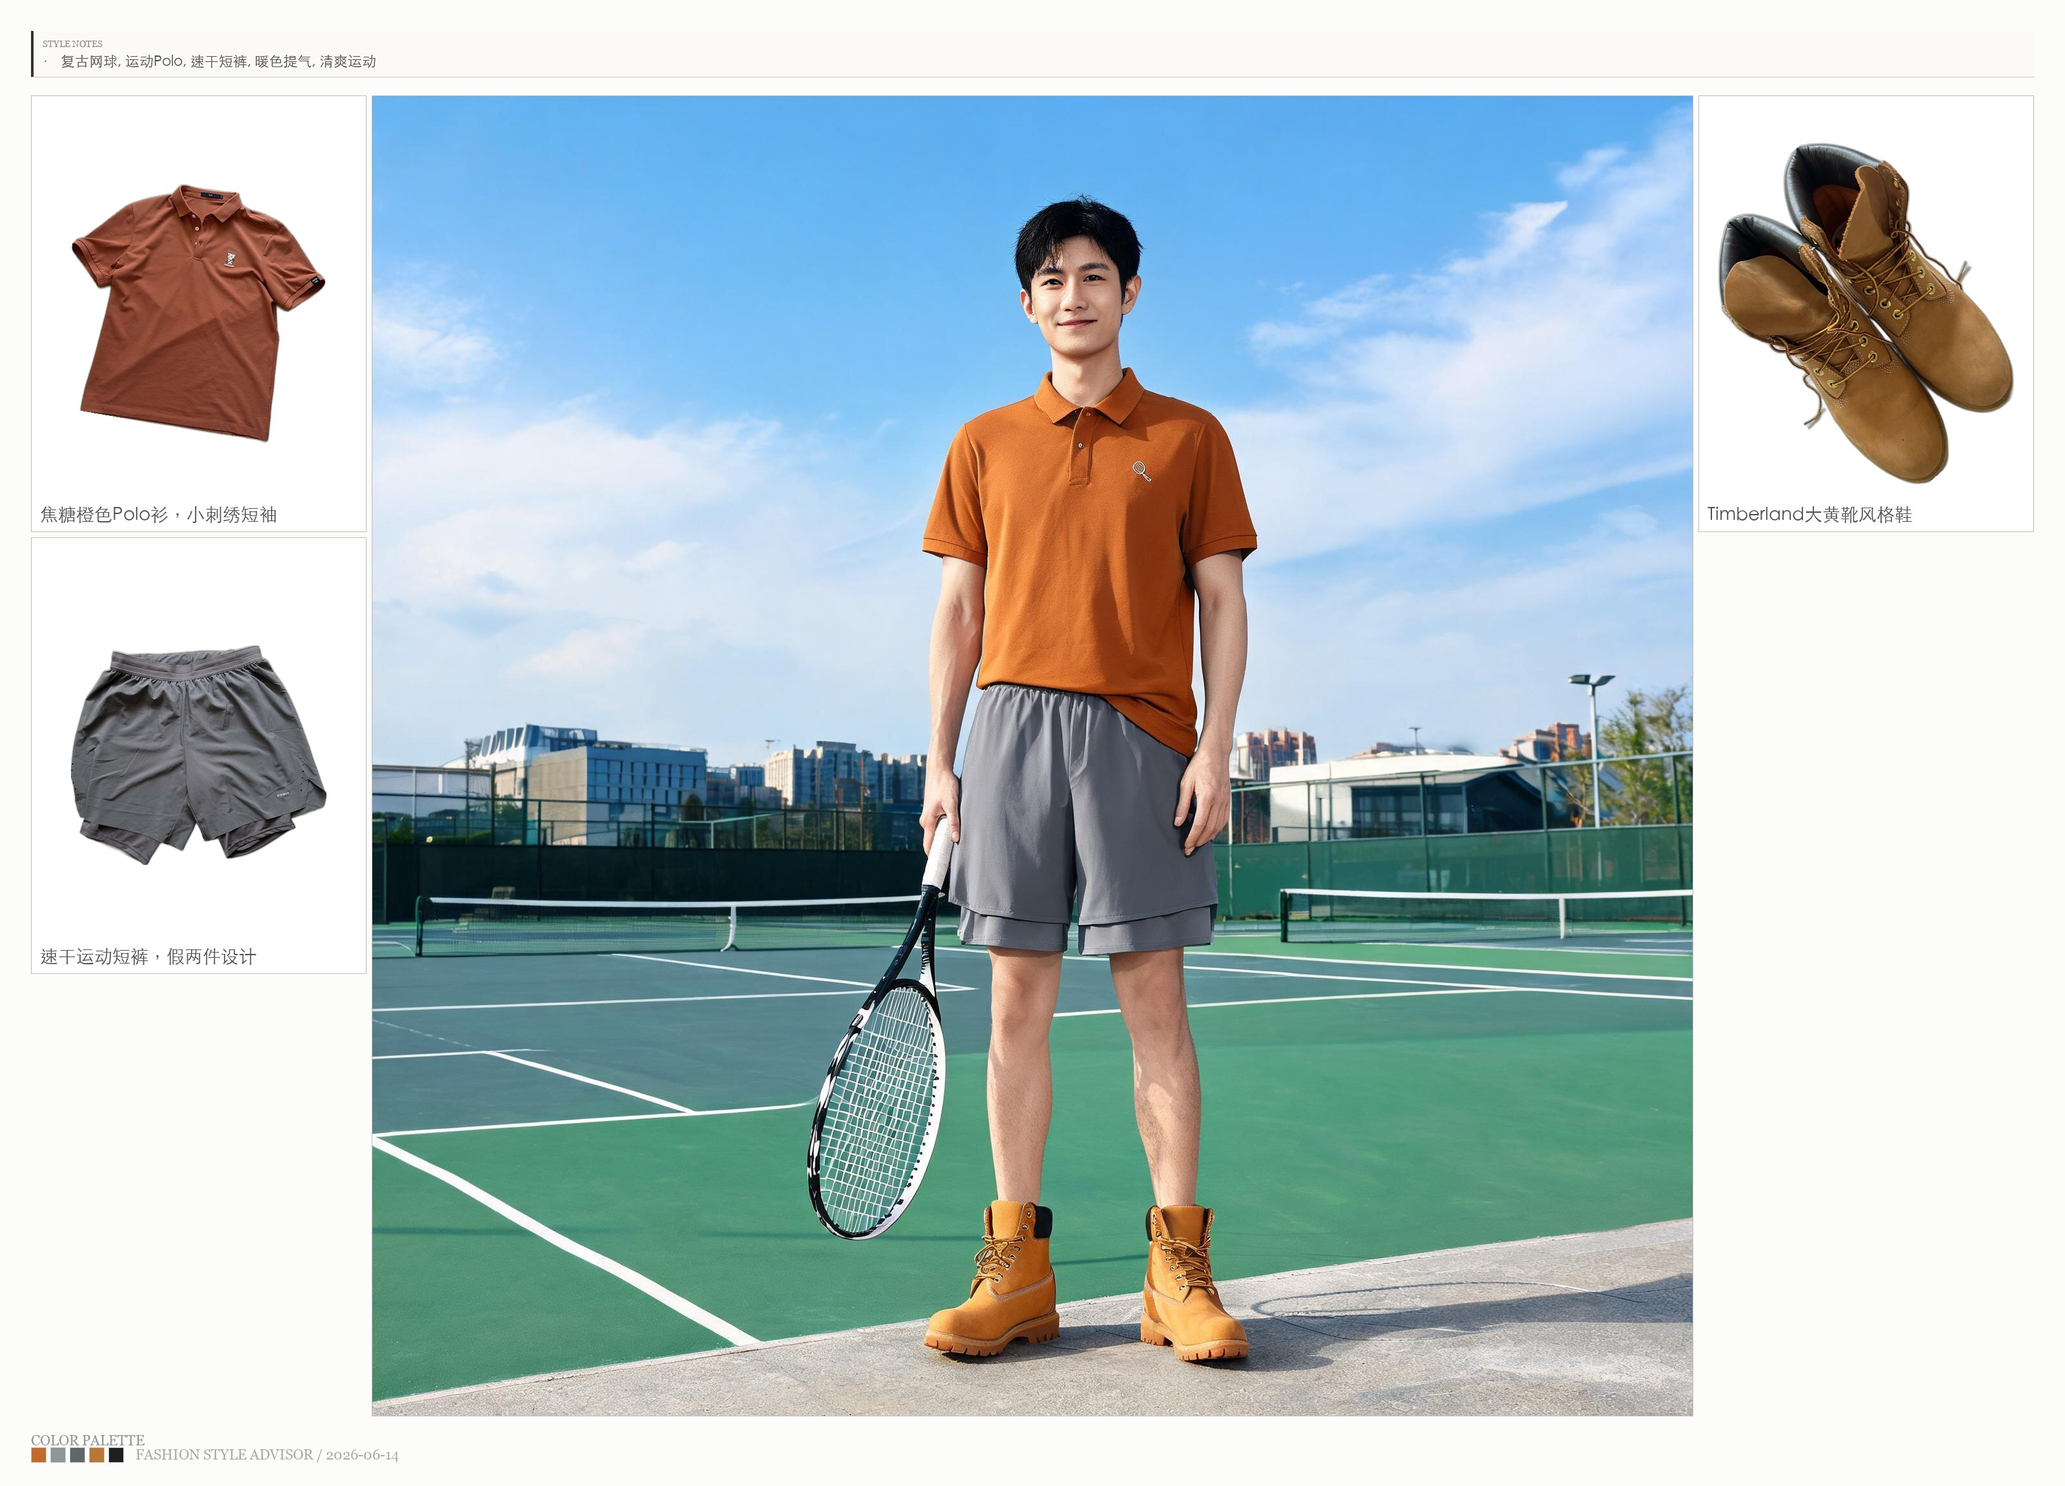
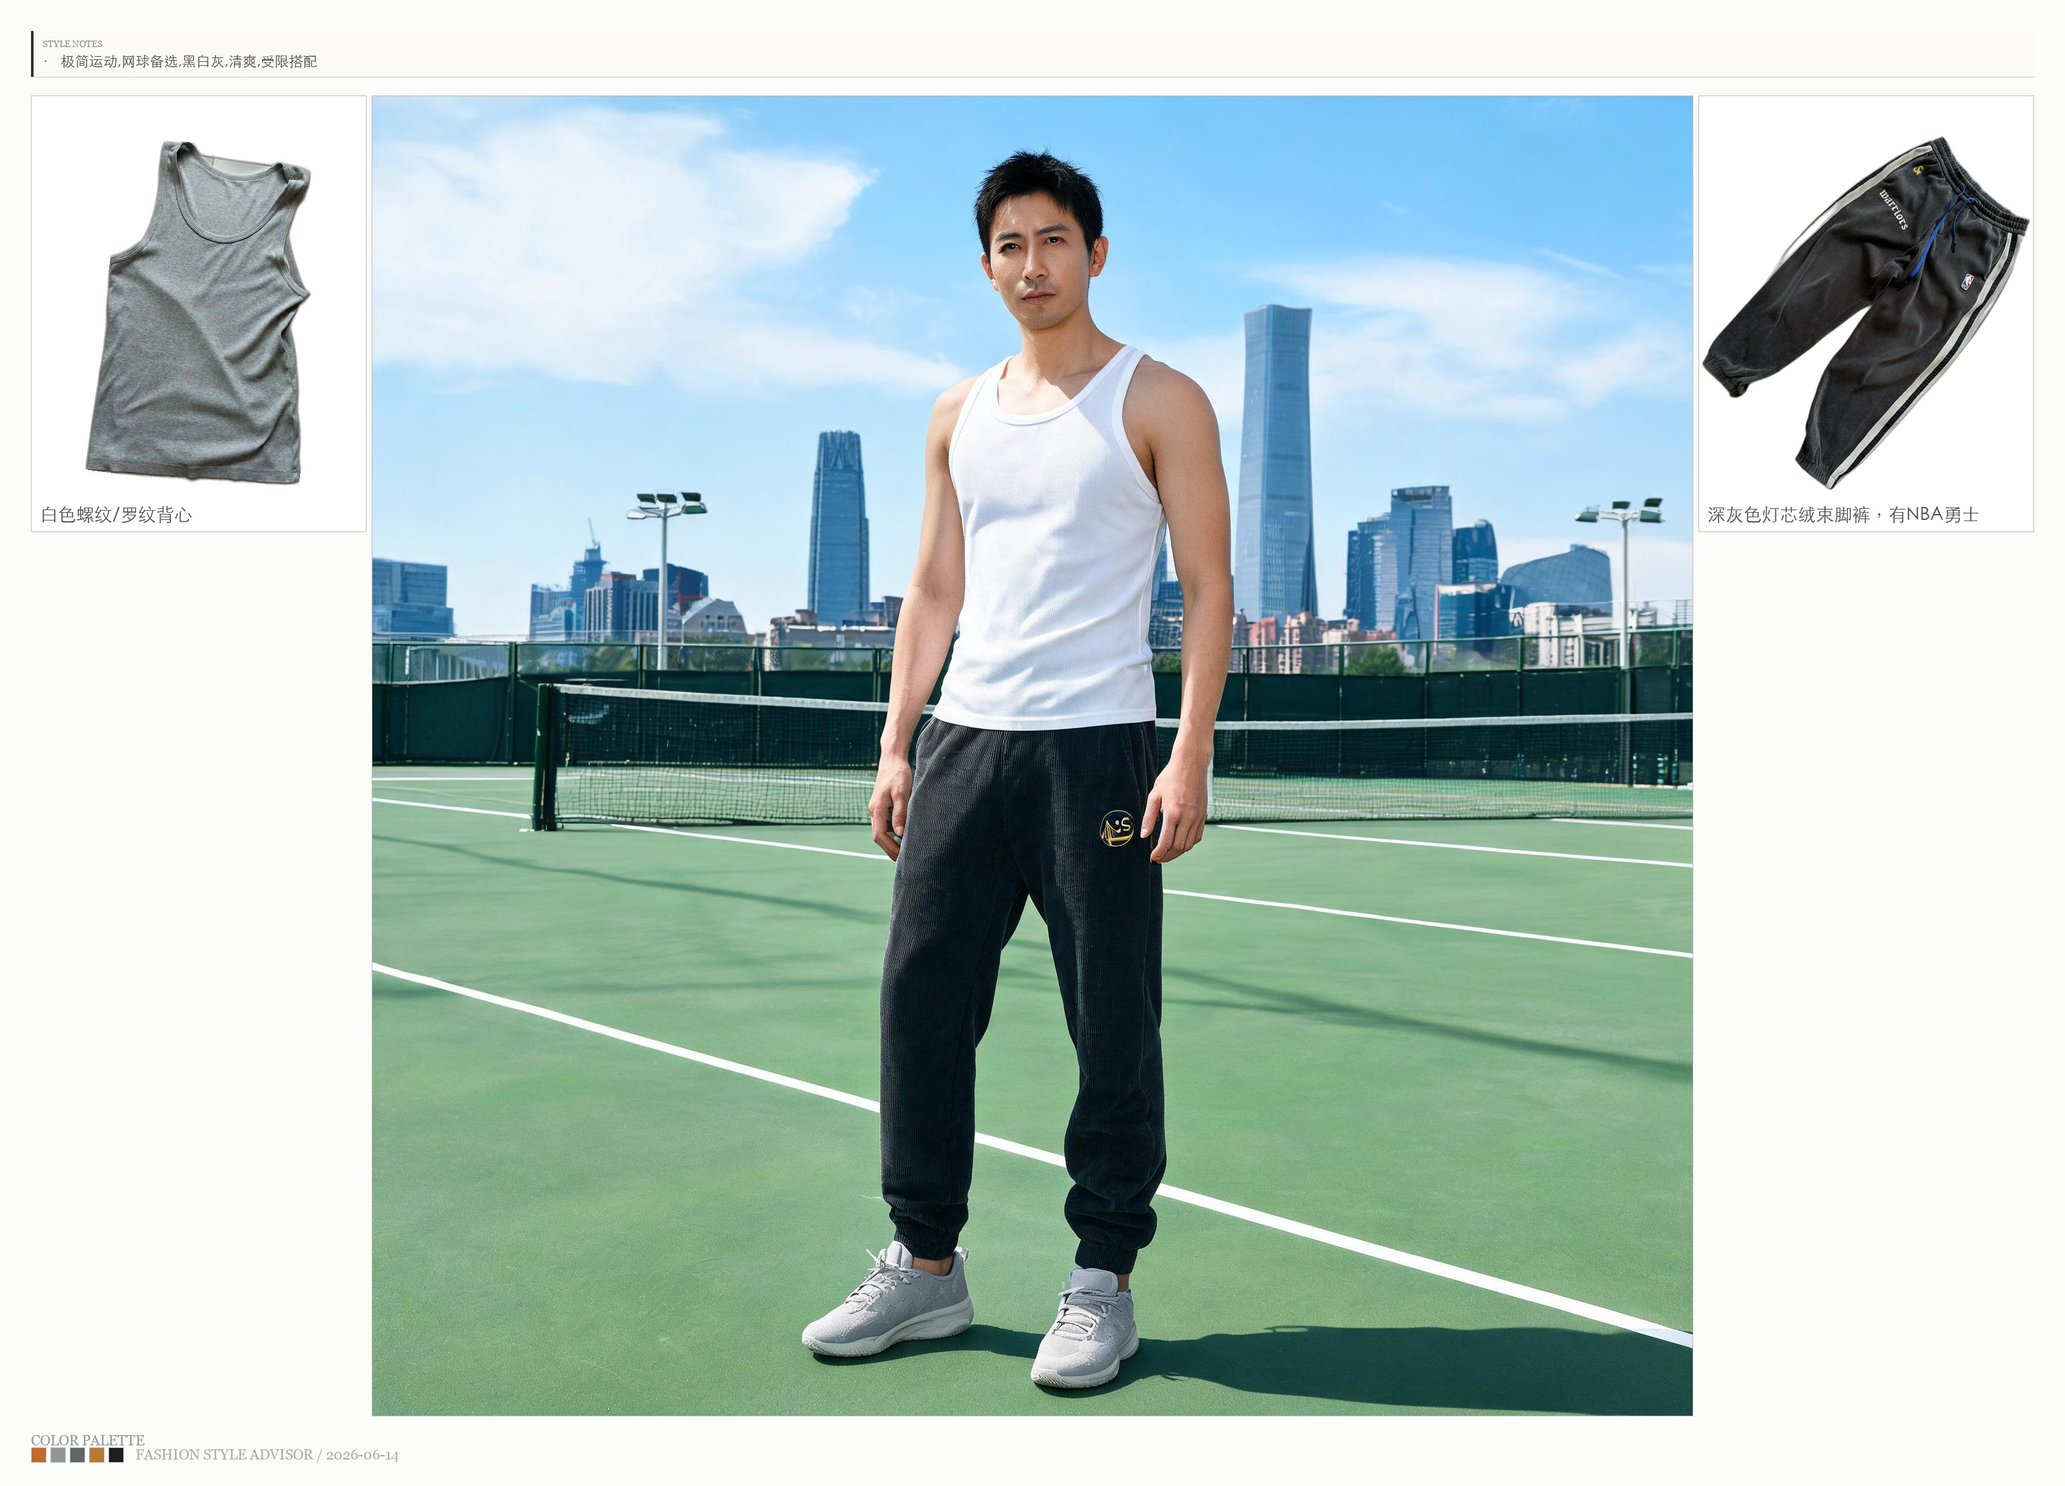
🎨 打网球穿搭 — 远程操控

diff --git a/tools/build_push.py b/tools/build_push.py
@@ -687,6 +687,16 @@ def save_push_cache(outfit_dir, content, style_name, outfit_name):
         }, f, ensure_ascii=False)
 
 
+def emit_stdout(content, style_name, outfit_name):
+    """向 stdout 输出 JSON，供手机控制台同步（最可靠的同步通道）"""
+    payload = json.dumps({
+        'content': content,
+        'style_name': style_name,
+        'outfit_name': outfit_name,
+    }, ensure_ascii=False)
+    print(f'__PUSH_RESULT__{payload}', flush=True)
+
+
 # ============================================================
 # 3. 命令行
 # ============================================================
@@ -734,10 +744,12 @@ def build_simple(outfit_dir):
 
 def main():
     if len(sys.argv) < 2:
-        print("用法: python3 tools/build_push.py <outfit_dir> [--preview] [--simple|--rich|--both] [--bline|--explore] [--bold|--adventure]")
+        print("用法: python3 tools/build_push.py <outfit_dir> [--preview] [--simple|--rich|--both] [--bline|--explore] [--bold|--adventure] [--no-bline] [--stdout]")
         print("  B线触发词(微调): 探索 新尝试 新鲜 微调 不一样 换个口味 挖掘 冷门 尝鲜")
         print("  B线触发词(大胆): 大胆 另类 冒险 突破 跨界 出格 惊喜 前卫 个性 疯狂")
         print("  偏好设置: python3 tools/build_push.py --set simple|rich|both")
+        print("  --stdout: 输出 JSON 到 stdout 供控制台同步（手机控制台自动使用）")
+        print("  --no-bline: 强制关闭 B线探索（手机控制台自动使用）")
         return
 
     # 设置偏好
@@ -764,12 +776,15 @@ def main():
     # B线参数：CLI 标志 + 触发词检测
     force_line = None
     force_boldness = None
+    # --no-bline：强制关闭 B线（手机控制台调用时使用，防止 build_push 独立触发 B线替换 outfit）
+    if '--no-bline' in sys.argv:
+        force_line = 'A'
     if '--bline' in sys.argv or '--explore' in sys.argv:
         force_line = 'B'
     if '--bold' in sys.argv or '--adventure' in sys.argv:
         force_line = 'B'
         force_boldness = 'bold'
-    # 从 outfit 目录名自动检测触发词
+    # 从 outfit 目录名自动检测触发词（仅在未明确指定时）
     if force_line is None:
         try:
             from style_lab import detect_bline_trigger
@@ -797,6 +812,8 @@ def main():
 
         # 缓存推送内容，供控制台同步显示
         save_push_cache(outfit_dir, rich_content, rich_name, outfit_name)
+        if '--stdout' in sys.argv:
+            emit_stdout(rich_content, rich_name, outfit_name)
 
         push_title = outfit_name if outfit_name else '穿搭推荐'
 
@@ -841,6 +858,8 @@ def main():
 
         # 缓存推送内容，供控制台同步显示
         save_push_cache(outfit_dir, content, style_name, outfit_name)
+        if '--stdout' in sys.argv:
+            emit_stdout(content, style_name, outfit_name)
 
         push_title = outfit_name if outfit_name else style_name
         base = get_push_base_url()

diff --git a/wardrobe/服装档案.md b/wardrobe/服装档案.md
@@ -76,14 +76,14 @@ last_updated: 2026-06-11
 
 | ID | 图片文件名 | 颜色 | 款式/风格 | 特点 | 适合度 | 备注 |
 |----|-----------|------|----------|------|--------|------|
-| SH-001 | Image_20260610_0837_13_270.jpg | 黑色 | 速干运动短裤、抽绳腰 | 功能性、运动风格、简洁 | 适合 | 运动/夏季 |
-| SH-002 | Image_20260610_0837_36_147.jpg | 白色底+绿色热带植物印花 | 夏威夷短裤/沙滩裤 | 度假风、宽松、与TS-002可搭套装 | 适合 | 度假/夏季/海滩 |
-| SH-003 | Image_20260610_0837_51_036.jpg | 灰色 | 速干运动短裤、假两件设计 | 功能性、运动风格、适合运动 | 适合 | 运动/健身/夏季 |
+| SH-001 | Image_20260610_0837_13_270.jpg | 黑色 | Cotton On速干运动短裤、抽绳腰 | 功能性、运动风格、简洁 | 适合 | 跑步/运动/夏季 |
+| SH-002 | Image_20260610_0837_36_147.jpg | 白色底+绿色热带植物印花 | 夏威夷短裤/沙滩裤 | 度假风、宽松、与TS-002可搭套装 | 适合 | 度假/夏季/海滩 ⚠非运动裤 |
+| SH-003 | Image_20260610_0837_51_036.jpg | 灰色 | Decathlon Kiprun专业跑步短裤、假两件 | 功能性、运动风格、内衬层增加层次 | 适合 | 🏃跑步/健身/网球/夏季 |
 | SH-004 | Image_20260610_0838_04_744.jpg | 浅灰色/麻灰色 | 休闲短裤、抽绳腰 | 舒适、日常休闲、宽松版型 | 适合 | 日常休闲/夏季 |
-| SH-005 | Image_20260610_0838_22_364.jpg | 灰色 | 速干运动短裤、大口袋设计 | 功能性、运动风格、有口袋 | 适合 | 运动/健身/夏季 |
+| SH-005 | Image_20260610_0838_22_364.jpg | 灰色 | Decathlon Artengo网球运动短裤 | 功能性、运动风格、有口袋、🎾网球线 | 适合 | 🎾网球/运动/夏季 |
 | SH-006 | Image_20260610_0838_45_017.jpg | 棕色/咖啡色 | 速干运动短裤、抽绳腰 | 颜色特别、运动风格、适合日常 | 适合 | 运动/日常/夏季 |
 | SH-007 | Image_20260610_0838_59_859.jpg | 深灰色/黑色 | 运动五分裤、抽绳腰 | 舒适、日常休闲/运动、版型适中 | 适合 | 运动/日常/夏季 |
-| SH-008 | Image_20260610_0839_33_059.jpg | 棕色/咖啡色 | 亚麻/棉麻休闲短裤 | 有质感、适合偏白肤色、适合轻熟休闲 | 适合 | 轻熟休闲/日常/夏季 |
+| SH-008 | Image_20260610_0839_33_059.jpg | 棕色/咖啡色 | 亚麻/棉麻休闲短裤 | 有质感、适合偏白肤色、适合轻熟休闲 | 适合 | 轻熟休闲/日常/夏季 ⚠非运动裤 |
 
 ---
 
@@ -113,15 +113,15 @@ last_updated: 2026-06-11
 | ID | 图片文件名 | 颜色 | 款式/风格 | 特点 | 适合度 | 备注 |
 |----|-----------|------|----------|------|--------|------|
 | SHOE-001 | IMG_8488.jpg | 米白色+灰色 | 复古休闲运动鞋/老爹鞋 | 复古风、有细节、增加下半身量感 | 适合 | 日常休闲、搭配牛仔/休闲裤 |
-| SHOE-002 | Image_20260610_0847_33_357.jpg | 米白+灰+黑 | 阿迪达斯复古德训鞋风格 | 干净百搭、复古风、适合偏白肤色 | 很适合 | 日常百搭、休闲/轻熟都可 |
-| SHOE-003 | Image_20260610_0847_51_185.jpg | 亮橙色 | 阿迪达斯足球鞋/运动鞋 | 运动风格、有球队元素 | 适合 | 运动/踢球 |
-| SHOE-004 | Image_20260610_0848_17_725.jpg | 米色/卡其色 | 匡威低帮帆布鞋 | 经典百搭、干净、休闲风 | 很适合 | 日常百搭、休闲/度假 |
-| SHOE-005 | Image_20260610_0848_30_512.jpg | 白色 | Nike白色板鞋/休闲鞋 | 干净百搭、简约、适合偏白肤色 | 很适合 | 日常百搭、休闲/轻熟 |
-| SHOE-006 | Image_20260610_0849_32_816.jpg | 姜黄色/土黄色 | 匡威高帮帆布鞋 | 有颜色亮点、复古感、适合偏白肤色 | 适合 | 日常休闲、增加造型亮点 |
-| SHOE-007 | Image_20260610_0849_44_053.jpg | 黄色/小麦色 | Timberland大黄靴风格 | 有质感、增加下半身量感、适合秋冬 | 很适合 | 秋冬搭配、可平衡偏瘦体型 |
-| SHOE-008 | Image_20260610_0849_55_705.jpg | 红色+米白/灰 | Jordan休闲板鞋 | 有品牌元素、颜色亮点、运动休闲 | 适合 | 日常休闲、运动风 |
-| SHOE-009 | Image_20260610_0850_18_965.jpg | 米白色/做旧白 | Nike高帮空军一号风格 | 经典、有质感、增加下半身量感 | 很适合 | 日常百搭、休闲/轻熟 |
-| SHOE-010 | Image_20260610_0850_29_738.jpg | 白+黑 | Puma拖鞋 | 居家/休闲、舒适 | 适合 | 居家/夏季短出门 |
+| SHOE-002 | Image_20260610_0847_33_357.jpg | 米白+灰+黑 | Adidas复古德训鞋/训练鞋 | 干净百搭、复古风、适合偏白肤色 | 很适合 | 日常百搭、休闲/轻熟 ⚠非专业运动鞋 |
+| SHOE-003 | Image_20260610_0847_51_185.jpg | 亮橙色 | Adidas Predator猎鹰足球鞋 | 运动风格、有球队元素、⚽足球专属 | 适合 | 运动/踢球 ⚠不适合日常通勤 |
+| SHOE-004 | Image_20260610_0848_17_725.jpg | 米色/卡其色 | Converse Chuck Taylor低帮帆布鞋 | 经典百搭、干净、休闲风、摇滚文化 | 很适合 | 日常百搭、休闲/度假 |
+| SHOE-005 | Image_20260610_0848_30_512.jpg | 白色 | Nike Court Lite网球鞋 🎾 | 干净百搭、简约、入门级网球鞋 | 很适合 | 网球/运动/日常百搭 |
+| SHOE-006 | Image_20260610_0849_32_816.jpg | 姜黄色/土黄色 | Converse Chuck Taylor高帮帆布鞋 | 有颜色亮点、复古感、适合偏白肤色 | 适合 | 日常休闲、增加造型亮点 |
+| SHOE-007 | Image_20260610_0849_44_053.jpg | 黄色/小麦色 | Timberland工装大黄靴 🏗 | 有质感、增加下半身量感、防水耐穿、嘻哈文化符号 | 很适合 | 秋冬街头/工装风 ⚠非运动鞋，不适合跑步/网球 |
+| SHOE-008 | Image_20260610_0849_55_705.jpg | 红色+米白/灰 | Jordan复古拼色板鞋 | 有品牌元素、颜色亮点、AJ篮球文化基因 | 适合 | 日常休闲、运动风/复古街头 |
+| SHOE-009 | Image_20260610_0850_18_965.jpg | 米白色/做旧白 | Nike高帮空军一号风格 | 经典、有质感、增加下半身量感、复古街头 | 很适合 | 日常百搭、休闲/轻熟 |
+| SHOE-010 | Image_20260610_0850_29_738.jpg | 白+黑 | Puma拖鞋/凉鞋 | 居家/休闲、舒适、Logo醒目 | 适合 | 居家/夏季短出门 ⚠不可运动穿 |
 
 ---
 

diff --git a/CLAUDE.md b/CLAUDE.md
@@ -86,6 +86,76 @@ python3 tools/rating_analyzer.py --summary   # 简要统计
 - 手机通过 ngrok HTTPS URL 访问 HTML 面板
 - 端口 8765，详情见 `memory/wechat-remote-control.md`
 
+## ⚠ 质量守则（Critical — 不可违反）
+
+### 1. 数据同步：控制台与微信内容必须一致
+
+手机控制台生成的穿搭，微信推送和控制台显示必须使用**完全相同的内容**。
+
+**实现机制（三层防御）**：
+1. **主通道**：`build_push.py --stdout` → stdout 输出 `__PUSH_RESULT__{json}` → `wechat_control.py` 解析
+2. **备用通道**：`.push_cache.json` 缓存文件
+3. **兜底通道**：`format_outfit_summary()` 简单摘要
+
+**调用规范**：手机控制台调用 build_push 必须加 `--no-bline --stdout`：
+```bash
+python3 tools/build_push.py <outfit_dir> --rich --no-bline --stdout
+```
+
+**禁止行为**：
+- ❌ 控制台用简单摘要、微信用百科内容（两条代码路径）
+- ❌ build_push 内部独立触发 B线替换 pipeline 已生成的 outfit
+- ❌ 直接调用 `build_push.py --rich` 不加 `--no-bline --stdout`
+
+### 2. 场景适配：运动/功能场景必须选对单品
+
+**规则**：
+- 运动场景（网球/跑步/健身/足球等）必须选功能运动鞋，**不可选工装靴、帆布鞋、拖鞋**
+- 运动下装必须选运动短裤/紧身裤，不可选亚麻裤、沙滩裤
+- 上衣优先选速干/Polo/背心等运动面料
+
+**实现**：
+- AI prompt 包含 `⚠ 场景匹配` 规则
+- `get_wardrobe_summary()` 从 `wardrobe/tags/*.json` 动态生成表格，自动包含场景标签
+- 每件单品在「场景标签」列标注用途（如 `入门网球`、`工装风`、`足球文化`）
+
+**防止回退**：
+- JSON 标签是唯一数据源，改了标签 AI 即时看到
+- 禁止手改 `服装档案.md` 后就以为完事——JSON 才是真相源
+
+### 3. 服装入库：两步标注流程
+
+新衣服入库必须执行两步（不可只做视觉）：
+1. **视觉识别**：品类/颜色/面料/廓形/品牌Logo
+2. **网络搜索**：品牌 + 系列名称 → 官方定位/产品线/文化背景/场景用途
+
+标签覆盖四个维度：身形修饰 + 风格文化 + 场景用途 + 设计特征。
+
+### 4. 手机端推送：首次必须双版
+
+`build_push.py` 首次推送默认 `mode='both'`（双版）：
+- 🅰 简洁版：单品清单 + 效果图
+- 🅱 百科版：风格故事 + 单品解释 + 配色 + 备选风格 + 评分
+
+底部带模式选择链接，用户点击后写入 `config/push_preference.json`。
+
+### 5. 单品禁用：只有一星差评才禁用
+
+- ~~一天内已用单品避开~~ ← 已废除
+- 只有用户对某套穿搭点 ⭐ 一星评价时，该套的所有单品才加入禁用清单
+- `get_banned_items()` 扫描 `outfits/*/rating.json`，`rating==1` 的 outfit 中所有单品禁用
+
+### 6. 配色色块：先 git push 再发微信
+
+生成 `_swatches.png` 后必须**先 `git push` 再构建 CDN URL**，否则 jsDelivr 拿不到图片。
+
+```python
+_sp.run(['git', 'commit', '-m', '🎨 配色色块'], ...)
+_sp.run(['git', 'push'], ...)  # ← 必须！不能省略
+h = _sp.run(['git', 'rev-parse', '--short', 'HEAD'], ...)
+swatch_img_url = f'https://cdn.jsdelivr.net/gh/...@{h}/...'
+```
+
 ## Git
 - Remote: `git@github.com:wangyunkun123/fashion-style-advisor.git` (SSH)
 - Web: https://github.com/wangyunkun123/fashion-style-advisor (public)

diff --git a/outfits/2026-06-14_打网球穿搭/outfit.md b/outfits/2026-06-14_打网球穿搭/outfit.md
@@ -1,8 +1,8 @@
 ---
 date: 2026-06-14
 scene: 打网球穿搭
-weather: 北京6月中旬晴/多云，22-34°C，日间炎热、紫外线强，适合轻薄透气运动穿搭。
-style: 复古网球运动风
+weather: 北京6月中旬晴/多云，22-34°C，午后炎热且紫外线强，建议避开正午并及时补水。
+style: 受限条件下的极简网球训练备选
 ---
 
 # 2026-06-14 打网球穿搭
@@ -11,18 +11,18 @@ style: 复古网球运动风
 
 | 品类 | ID | 单品 | 颜色 |
 |------|-----|------|------|
-| 上衣 | **TS-001** | 焦糖橙色Polo衫，小刺绣短袖 | 橙色/焦糖色 |
-| 下装 | **SH-003** | 速干运动短裤，假两件设计 | 灰色 |
-| 鞋子 | **SHOE-007** | Timberland大黄靴风格鞋款，仅作非重复往返/场边选择 | 黄色/小麦色 |
+| 上衣 | **TANK-002** | 白色螺纹/罗纹背心 | 白色 |
+| 下装 | **PT-003** | 深灰色灯芯绒束脚裤，有NBA勇士元素 | 深灰色 |
+| 鞋子 | **UNAVAILABLE** | 今日所有鞋款均已使用，无法从未使用单品中选择网球鞋 | 无 |
 
 ## 搭配理由
 
-打网球以轻便和吸汗为核心，焦糖橙Polo保留网球经典感，也能提亮白皙肤色；灰色速干假两件短裤负责透气与活动量，弱化偏瘦腿型。今日可用鞋款受限，SHOE-007仅作非重复选择，正式上场建议另备专业网球鞋。
+在所有短袖、运动短裤、鞋子、袜子、帽包均已被使用的限制下，只能选择未使用的白色背心与深灰束脚裤作为轻量活动备选。白色上衣适合高温并提亮肤色，深灰裤增加下半身量感，适合偏瘦体型；但缺少未使用网球鞋，不建议进行高强度实战。
 
 ## 配色逻辑
 
-焦糖橙与灰色形成暖中带稳的组合，既有运动活力又不过分跳脱；小麦黄鞋与上衣同属暖色系，形成上下呼应，让整体更完整。
+白色上衣负责清爽降温并提亮肤色，深灰色下装压住整体视觉，形成简洁黑白灰运动感；整体低饱和配色干净克制。
 
 ## 风格关键词
 
-复古网球, 运动Polo, 速干短裤, 暖色提气, 清爽运动
+极简运动,网球备选,黑白灰,清爽,受限搭配
